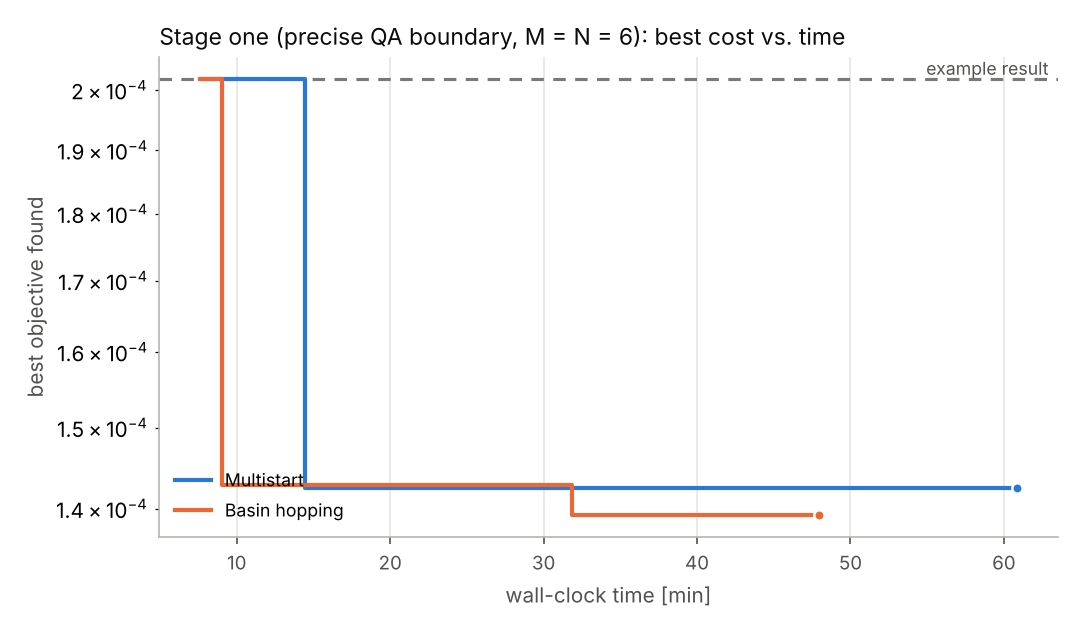
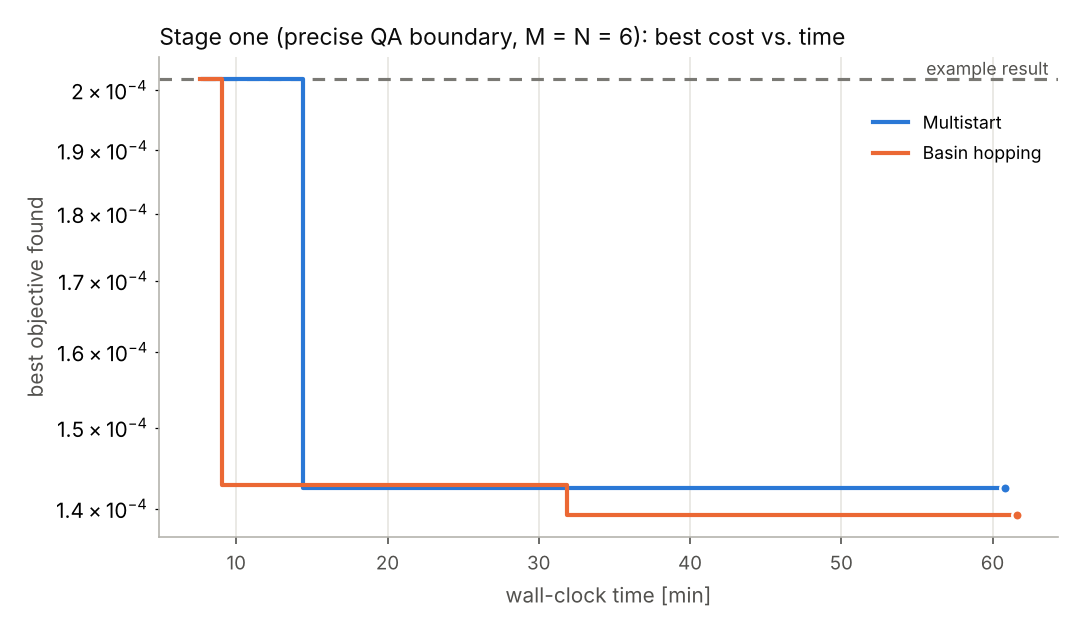
Stage-1 basin hopping result; README results write-up and figures
Claude-Session: https://claude.ai/code/session_01WPjBvHKRPzmhu1VUUxufcB

diff --git a/global_opt/analyze.py b/global_opt/analyze.py
@@ -392,6 +392,7 @@ def main():
                 "Stage one (precise QA boundary, M = N = 6): best cost vs. time",
                 keys=keys,
                 base_label="example result",
+                legend_loc="upper right",
             )
             plot_minima(
                 r1,

diff --git a/global_opt/README.md b/global_opt/README.md
@@ -16,7 +16,180 @@ examples that ship with DESC:
 
 All runs were made on 4 CPU cores (no GPU) with DESC master at commit `d644e62`.
 
-RESULTS_PLACEHOLDER
+## Results in brief
+
+* **Stage two: global search finds far better coils.** The tutorial's single
+  `lsq-exact` solve stops at cost **197.9**, and so does the same solve run to
+  tight tolerances (197.87). That's a genuine local minimum, not an unconverged
+  solve. Every global method beat it within 20 minutes on 3 CPU cores. The best,
+  basin hopping, reached **2.37 (84× lower)**, with ⟨|B·n|⟩/⟨|B|⟩ =
+  1.6e-4 instead of 9.2e-4. The annealed noisy gradient was the most consistent
+  method (4.4 and 5.7 on its two seeds).
+* **Not just loose bounds.** The tutorial allows coils up to ~20 m long and as
+  close as 5 cm, and the better minima use that freedom. So every method was
+  rerun with **tight bounds** set to the tutorial result's own values: coil-coil
+  distance ≥ 0.14 m, every coil ≤ 7 m. A single solve still ends at 197.9, while
+  basin hopping reaches **54.5 (3.6× lower)**, with ⟨|B·n|⟩/⟨|B|⟩ = 4.2e-4.
+* **Stage one: smaller but real gains.** Against the example's continuation
+  result (2.02e-4), multistart and basin hopping from scratch reach 1.39–1.43e-4
+  (~30 % lower). Basin hopping started from the example's result reaches
+  **1.16e-4 (43 % lower)**. The gain is almost entirely in the QS error; aspect
+  ratio and ι stay on target.
+* **Use basin hopping or the noisy gradient, not CMA-ES.** CMA-ES worked poorly
+  in the ~190-dimensional coil space (54.9, or 35.8 restricted to |n| ≤ 2 modes).
+  The methods built on DESC's exact-Jacobian local solver win.
+
+## Stage two: precise QA coils (tutorial problem)
+
+Every global run had the same 20-minute wall-clock budget on the same 3 cores.
+"Local solves" counts the `lsq-exact` solves, each ~30–40 s. The objective is
+the tutorial's, unchanged: cost = ½‖weighted residuals‖². In the better minima
+it's almost entirely the quadratic-flux term.
+
+| Method | Seed | Best cost | ⟨\|B·n\|⟩/⟨\|B\|⟩ | Min coil-coil [m] | Coil lengths [m] | Local solves |
+|---|---|---|---|---|---|---|
+| Tutorial (single `lsq-exact`) | – | 197.88 | 9.16e-4 | 0.144 | 6.97, 5.42, 5.52 | 1 |
+| Same start, tolerances 1e-10 | – | 197.87 | 9.16e-4 | 0.144 | 6.97, 5.42, 5.52 | 1 |
+| Multistart | 0 / 1 | 16.43 / 14.10 | 3.9e-4 / 2.9e-4 | 0.051 / 0.096 | ≤ 10.8 / ≤ 8.7 | 33 / 31 |
+| Basin hopping | 0 / 1 | 12.38 / **2.37** | 3.2e-4 / **1.6e-4** | 0.050 / 0.051 | ≤ 11.5 / ≤ 12.3 | 31 / 33 |
+| Annealed noisy gradient | 0 / 1 | 4.41 / 5.68 | 1.9e-4 / 1.9e-4 | 0.059 / 0.073 | ≤ 10.1 / ≤ 9.5 | 17 / 13 |
+| CMA-ES + polish | 0 | 54.88 | 1.0e-3 | 0.051 | ≤ 12.4 | 4 |
+| CMA-ES on \|n\| ≤ 2 modes + polish | 0 | 35.77 | 5.5e-4 | 0.050 | ≤ 10.3 | 4 |
+
+Full per-term breakdown, curvature, plasma-coil distance and timings are in
+[`results/summary.md`](results/summary.md).
+
+![Stage two convergence](figures/stage2_convergence.png)
+
+![Stage two local minima](figures/stage2_local_minima.png)
+
+![Stage two B.n and coils](figures/stage2_Bn_and_coils.png)
+
+What these show:
+
+* **The landscape is very rugged.** Multistart's 64 local minima (two seeds)
+  span 14 to 3000. Only about half beat the tutorial result, and the median is
+  ~180. A single local solve from circular coils lands in one of these at
+  random.
+* **Good minima cluster.** Perturbing a good minimum and re-solving (basin
+  hopping) gives lower minima than restarting from the initial guess: median
+  41–63 vs 147–220 for multistart.
+* **Langevin excursions work well.** The noisy-gradient excursions follow
+  low-cost valleys instead of jumping isotropically. Their minima have medians
+  of 14–33, and both seeds ended below 6, using only 13–17 local solves.
+* **CMA-ES is a poor fit here.** Its generations of ~20 random samples in ~190
+  dimensions rarely beat a local minimum of this narrow-valleyed objective.
+  Searching only the |n| ≤ 2 modes helps, but it still loses to the methods that
+  call the exact-Jacobian local solver.
+* **Seed scatter is large.** Basin hopping got 12.4 on one seed and 2.4 on the
+  other, so a single 20-minute run is one draw. If you have the hardware, run
+  several seeds in parallel and keep the best.
+
+### Same problem with tight distance/length bounds
+
+The better minima above lengthen the coils (up to ~12 m vs 7 m) and push the
+coil-coil distance down to the tutorial's bound (5 cm vs 14 cm). Both are
+allowed by the tutorial's objective, but you may not want them. In
+`--variant tight` the bounds are the tutorial result's own values: coil-coil
+≥ 0.14 m and every coil ≤ 7 m. The tutorial result is therefore feasible, with
+the same cost.
+
+| Method | Seed | Best cost | Quadratic-flux term | ⟨\|B·n\|⟩/⟨\|B\|⟩ | Min coil-coil [m] | Coil lengths [m] | Local solves |
+|---|---|---|---|---|---|---|---|
+| Single `lsq-exact` (tutorial procedure) | – | 197.88 | 197.87 | 9.16e-4 | 0.144 | 6.97, 5.42, 5.52 | 1 |
+| Multistart | 0 | 69.96 | 67.22 | 4.9e-4 | 0.138 | 7.06, 6.05, 6.94 | 32 |
+| Basin hopping | 0 | **54.48** | 51.98 | **4.2e-4** | 0.137 | 7.05, 6.22, 6.96 | 31 |
+| Annealed noisy gradient | 0 | 68.49 | 65.87 | 4.7e-4 | 0.137 | 7.05, 6.37, 6.18 | 17 |
+
+![Stage two tight convergence](figures/stage2_tight_convergence.png)
+
+![Stage two tight B.n and coils](figures/stage2_tight_Bn_and_coils.png)
+
+The gain shrinks from ~80× to ~3–4×, but it is still large: ⟨|B·n|⟩/⟨|B|⟩ falls
+2.2×. The bounds are soft penalties, as in the tutorial, so the minima sit just
+past them (0.137 m instead of 0.14 m, 7.05 m instead of 7 m). Raise those terms'
+weights if they must hold exactly.
+
+## Stage one: precise QA boundary (reduced resolution)
+
+Each run used 1 CPU core and a budget of at most 1 hour (the last column is wall time).
+Each local optimization is a `proximal-lsq-exact` solve, which re-solves the
+equilibrium; one takes 1.5–7 min (a full k = 1..3 continuation).
+
+| Method | Best cost | QS term | Aspect ratio | ι (edge) | Local optimizations | Wall [s] |
+|---|---|---|---|---|---|---|
+| Example (continuation k = 1, 2, 3) | 2.02e-4 | 1.97e-4 | 6.000 | 0.420 | 1 | 636 |
+| Multistart (perturbed initial boundary + continuation) | 1.43e-4 | 1.36e-4 | 6.000 | 0.419 | 11 | 3650 |
+| Basin hopping (runs the example, then hops) | 1.39e-4 | 1.38e-4 | 6.000 | 0.420 | 29 | 3696 |
+| Basin hopping from the example's saved result (exploratory, seed 1) | **1.16e-4** | 1.13e-4 | 6.000 | 0.419 | 21 | 2541 |
+
+![Stage one convergence](figures/stage1_convergence.png)
+
+![Stage one local minima](figures/stage1_local_minima.png)
+
+The gains are tens of percent, not orders of magnitude, so stage one's landscape
+looks much less rugged at this resolution. Global search is also costlier per
+step there: each local solve takes minutes. Large boundary perturbations
+sometimes make the equilibrium solve diverge (the open triangles in the figure).
+Those trials are rejected automatically, but they waste time, so keep
+`--sigma`/`--length-scale` moderate.
+
+## Caveats
+
+* **CPU only.** All timings are from 3–4 CPU cores. On a GPU each local solve is
+  faster, so more of them fit in the same budget. The ranking of the methods
+  should not change.
+* **Few seeds.** Stage-two methods ran 2 seeds each; the tight variant and CMA-ES
+  ran 1, stage one 1. The differences between multistart, basin hopping and the
+  noisy gradient are within seed scatter. Only "all of them ≫ single solve" and
+  "CMA-ES worst" are robust conclusions.
+* **Curvature bound everywhere.** Every stage-two solution, including the
+  tutorial's, has its maximum curvature at the bound (2.0, normalized).
+* **Reduced stage-one resolution.** Stage one ran at M = N = 6 with boundary
+  modes up to 3, instead of M = N = 8 and 4 continuation steps. The minima at
+  full resolution may differ.
+* **A failed first design.** The first version of the noisy gradient (pure
+  annealed Langevin dynamics from the circular coils) failed, ending at 208. It
+  is kept in `results/stage2/superseded/` for reference. The current version
+  starts each excursion from the incumbent local minimum and always finishes with
+  a local solve.
+
+## Using this on your own problems
+
+The tools work for any DESC problem whose constraints are linear: coil
+optimization, fixed-boundary optimization with `lsq-exact`, and so on:
+
+```python
+from desc_global import ProjectedProblem, basin_hopping, multistart, annealed_noisy_gradient
+
+problem = ProjectedProblem(
+    coilset, objective, constraints,
+    local_kwargs=dict(maxiter=100, ftol=1e-4),
+    length_scale=0.05,   # ~10% of a typical coil radius, in meters
+    alpha=0.5,           # smoothness: scale of mode n is length_scale * exp(-alpha * n)
+    current_rel=0.1,
+)
+res0 = problem.local_solve(problem.x_full())           # the usual single solve
+result = basin_hopping(problem, x0=res0["x"], sigma=1.0, temperature=0.5,
+                       restart_after=6, time_budget=3600)
+# or: annealed_noisy_gradient(problem, x0=res0["x"], temperature0=0.3, time_budget=3600)
+coilset.save("best_coils.h5")                           # coilset now holds the best found
+```
+
+* With many Fourier modes, keep perturbations smooth. For example, the coilset
+  in this repo has 20 coils × 151 modes; use a larger `alpha` or
+  `max_order=...` (perturb only |n| ≤ max_order). Otherwise each hop is mostly
+  high-frequency noise that the local solve has to undo.
+* Multistart and independent basin-hopping seeds are embarrassingly parallel:
+  run one process per GPU or core and keep the best.
+* After a big improvement, check the per-term breakdown. In the tutorial
+  objective the better minima come partly from longer, closer-packed coils.
+  Decide whether that's acceptable, and tighten the bounds or raise the weights
+  if not.
+* For equilibrium (stage-one / free-boundary) problems, `ForceBalance` needs
+  `ProximalProjection`, which `ProjectedProblem` does not wrap. Follow
+  `stage1_precise_QA.py` instead: perturb with `Equilibrium.perturb` and re-run
+  `eq.optimize`.
 
 ## Files
 

diff --git a/global_opt/results/summary.md b/global_opt/results/summary.md
@@ -28,5 +28,5 @@
 |---|---|---|---|---|---|---|---|---|---|
 | Example (continuation k = 1..3) | 0 | 2.019e-04 | 1.974e-04 | 2.0e-09 | 4.5e-06 | 6.000 | 0.420 | 1 | 636 |
 | Multistart (perturbed initial boundary) | 0 | 1.425e-04 | 1.357e-04 | 1.4e-10 | 6.7e-06 | 6.000 | 0.419 | 11 | 3650 |
-| Basin hopping | 0 | 1.392e-04 | 1.378e-04 | 4.7e-10 | 1.4e-06 | 6.000 | 0.420 | 24 | 2877 |
+| Basin hopping | 0 | 1.392e-04 | 1.378e-04 | 4.7e-10 | 1.4e-06 | 6.000 | 0.420 | 29 | 3696 |
 | Basin hopping from example result (1 core) | 1 | 1.158e-04 | 1.131e-04 | 6.4e-10 | 2.7e-06 | 6.000 | 0.419 | 21 | 2541 |
